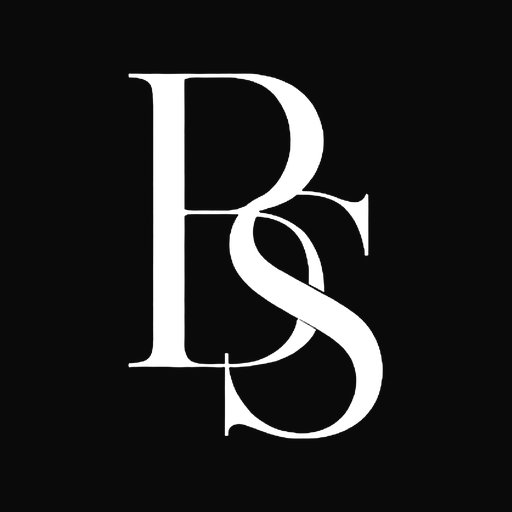
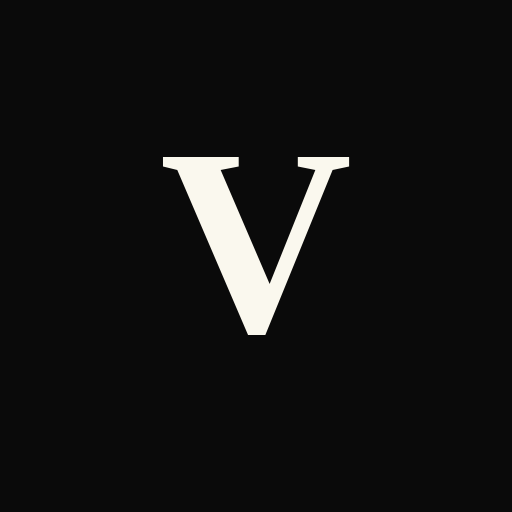
Rebrand BLANK STUDIO to VALENCIANO
Company renamed with a new visual direction inspired by Italian
luxury fashion houses (Valentino) — same product catalog, pricing,
and Peruvian cotton story, but repositioned toward a more dramatic
black/white palette and elegant tone of voice.

- Instagram handle updated to @valenciano.co everywhere the order
  flow references it (this is functional, not just cosmetic).
- BrandMark swapped from the old "BS" logo photos to a plain "V"
  text mark until the real VALENCIANO logo file is attached.
- Home hero, manifesto, and La Marca fully rewritten with the new
  storytelling; category names (Essentials/Oversize/Studio
  Series/Icon Series) intentionally left unchanged per request.
- Paper/ink neutrals pushed toward a starker white/black.

Changed region(s): [[0.25, 0.125, 0.75, 0.875]]

diff --git a/src/app/marca/page.tsx b/src/app/marca/page.tsx
@@ -6,7 +6,7 @@ import { INSTAGRAM_HANDLE } from "@/lib/instagramOrder";
 export const metadata: Metadata = {
   title: "La marca",
   description:
-    "BLANK STUDIO diseña ropa esencial en 100% algodón peruano. Calidad, diseño limpio y quiet luxury.",
+    "VALENCIANO diseña ropa esencial en 100% algodón peruano, con una estética elegante e italiana.",
 };
 
 const VALUES = [
@@ -15,7 +15,7 @@ const VALUES = [
     text: "Algodón 100% peruano en 200 y 300 GSM. Colores sólidos que perduran, tela que no se encoge ni se deforma.",
   },
   {
-    title: "Diseño limpio",
+    title: "Elegancia silenciosa",
     text: "Sin saturación visual. Cuando llevamos un gráfico o una marca, es intencional y discreta — nunca el protagonista de la prenda.",
   },
   {
@@ -30,7 +30,7 @@ export default function MarcaPage() {
       <section className="relative flex h-[60vh] min-h-[420px] w-full items-center justify-center overflow-hidden bg-brand-black">
         <EditorialImage
           src="/catalog/fabric-bg.jpg"
-          alt="BLANK STUDIO"
+          alt="VALENCIANO"
           gradient="from-[#1c1b19] via-[#141312] to-[#0c0b0a]"
         />
         <div className="absolute inset-0 bg-black/40" />
@@ -38,22 +38,22 @@ export default function MarcaPage() {
           <p className="label text-white/60">Premium Essentials</p>
           <BrandMark variant="white" size={72} className="mt-6" />
           <h1 className="font-display mt-6 text-4xl text-white sm:text-6xl">
-            BLANK STUDIO
+            VALENCIANO
           </h1>
         </div>
       </section>
 
       <section className="mx-auto max-w-2xl px-5 py-24 text-center sm:px-8">
         <p className="font-display text-2xl leading-relaxed text-ink/85 sm:text-3xl">
-          No competimos por precio. Competimos por percepción de calidad,
-          identidad y confianza.
+          No competimos por precio. Competimos por elegancia, identidad y
+          confianza.
         </p>
         <p className="mt-8 text-sm leading-relaxed text-ink/60">
-          BLANK STUDIO nace para construir una marca de ropa minimalista
-          reconocida por su calidad y su diseño limpio. Camisetas premium
-          confeccionadas con 100% algodón peruano, pensadas para quienes
-          valoran la simplicidad, la durabilidad y la versatilidad por
-          encima de las tendencias pasajeras.
+          VALENCIANO nace para construir una marca de ropa elegante,
+          inspirada en el rigor y la sobriedad de las grandes casas de moda
+          italianas. Piezas premium confeccionadas con 100% algodón peruano,
+          pensadas para quienes valoran la simplicidad, la durabilidad y una
+          elegancia que no necesita alzar la voz.
         </p>
       </section>
 
@@ -72,7 +72,7 @@ export default function MarcaPage() {
         <div className="relative aspect-[4/5] w-full max-w-md overflow-hidden justify-self-center lg:order-2 lg:justify-self-end">
           <EditorialImage
             src="/catalog/fabric-texture.jpg"
-            alt="Proceso de fabricación BLANK STUDIO"
+            alt="Proceso de fabricación VALENCIANO"
             gradient="from-[#5b4433] via-[#4a3626] to-[#2c2018]"
           />
         </div>
@@ -82,8 +82,8 @@ export default function MarcaPage() {
             El proceso detrás de cada prenda
           </h2>
           <p className="mt-6 text-sm leading-relaxed text-ink/65">
-            Cada camiseta se confecciona con 100% algodón peruano — una de
-            las fibras de algodón más reconocidas del mundo por su suavidad,
+            Cada prenda se confecciona con 100% algodón peruano — una de las
+            fibras de algodón más reconocidas del mundo por su suavidad,
             resistencia y durabilidad. Trabajamos dos gramajes pensados para
             necesidades distintas: 200 GSM, un tejido ligero para el uso
             diario, y 300 GSM, de mayor cuerpo y estructura.
@@ -94,7 +94,7 @@ export default function MarcaPage() {
             color se mantenga sólido con el tiempo. El corte del cuello, las
             costuras y la caída de la prenda se ajustan según la silueta —
             Essentials (horma normal) u Oversize (silueta amplia, cuello en
-            rib) — para que cada línea se vea intencional, no genérica.
+            rib) — para que cada línea se vea intencional, nunca genérica.
           </p>
         </div>
       </section>
@@ -102,22 +102,21 @@ export default function MarcaPage() {
       <section className="mx-auto max-w-3xl px-5 py-24 text-center sm:px-8">
         <p className="label text-ink/40">Para quién</p>
         <h2 className="font-display mt-3 text-3xl sm:text-4xl">
-          ¿A quién viste BLANK STUDIO?
+          ¿A quién viste VALENCIANO?
         </h2>
         <p className="mt-6 text-sm leading-relaxed text-ink/65">
           Hombres y mujeres, principalmente entre los 18 y los 35 años, que
           valoran vestir bien sin depender de logos gigantes ni de
           tendencias que pasan de moda en una temporada. Personas que
-          prefieren una prenda limpia que combine con todo su clóset, que
-          entienden que la calidad se nota en el detalle — la caída de la
+          prefieren una prenda impecable que combine con todo su clóset, que
+          entienden que la elegancia se nota en el detalle — la caída de la
           tela, el gramaje, la consistencia del color — y que se sienten
-          identificadas con un estilo minimalista, cercano al Old Money y al
-          Quiet Luxury: elegante sin ser ruidoso.
+          identificadas con un estilo sobrio y refinado, cercano al Quiet
+          Luxury europeo: elegante sin ser ruidoso.
         </p>
         <p className="mt-4 text-sm leading-relaxed text-ink/65">
-          Si buscas piezas base para armar un guardarropa versátil (capsule
-          wardrobe) en vez de comprar por impulso, BLANK STUDIO está pensado
-          para ti.
+          Si buscas piezas base para armar un guardarropa versátil en vez de
+          comprar por impulso, VALENCIANO está pensado para ti.
         </p>
       </section>
 

diff --git a/src/app/page.tsx b/src/app/page.tsx
@@ -11,7 +11,7 @@ export default function Home() {
       <section className="relative h-[92vh] min-h-[560px] w-full overflow-hidden bg-brand-black">
         <EditorialImage
           src="/catalog/hero-rack.jpg"
-          alt="Camisetas BLANK STUDIO en algodón peruano, colgadas en estudio"
+          alt="Camisetas VALENCIANO en algodón peruano, colgadas en estudio"
           priority
           gradient="from-[#1c1b19] via-[#141312] to-[#0c0b0a]"
         />
@@ -21,14 +21,14 @@ export default function Home() {
             100% algodón peruano
           </p>
           <h1 className="font-display max-w-3xl text-5xl leading-[1.05] text-white sm:text-7xl">
-            Elegancia urbana.
+            L&apos;eleganza essenziale.
             <br />
-            <span className="italic text-white/85">Comodidad esencial.</span>
+            <span className="italic text-white/85">Hecha para durar.</span>
           </h1>
           <p className="mt-6 max-w-md text-sm leading-relaxed text-white/70">
-            Essentials y Oversize en algodón 100% peruano. Horma limpia,
-            materiales premium, sin ruido visual — diseñada para vestirse
-            todos los días.
+            Essentials y Oversize en algodón 100% peruano. Espíritu italiano,
+            horma limpia, materiales premium — elegancia sin esfuerzo, todos
+            los días.
           </p>
           <div className="mt-9 flex flex-wrap gap-4">
             <Link
@@ -51,9 +51,9 @@ export default function Home() {
       <section className="mx-auto max-w-2xl px-5 py-28 text-center sm:px-8">
         <p className="label text-ink/40">Filosofía</p>
         <p className="font-display mt-6 text-2xl leading-relaxed text-ink/85 sm:text-3xl">
-          Diseñamos prendas simples, versátiles y duraderas. Sin saturación
-          visual — solo tela de calidad, un corte limpio y detalles con
-          intención.
+          Diseñamos prendas simples, versátiles y elegantes, con un espíritu
+          italiano. Sin saturación visual — solo tela de calidad, un corte
+          impecable y detalles con intención.
         </p>
       </section>
 
@@ -132,7 +132,7 @@ export default function Home() {
         <div className="relative aspect-square w-full max-w-md overflow-hidden justify-self-center lg:justify-self-end">
           <EditorialImage
             src="/catalog/fabric-texture.jpg"
-            alt="Detalle de textura del algodón peruano BLANK STUDIO"
+            alt="Detalle de textura del algodón peruano VALENCIANO"
             gradient="from-[#5b4433] via-[#4a3626] to-[#2c2018]"
           />
         </div>
@@ -167,16 +167,16 @@ export default function Home() {
       <section className="relative flex h-[60vh] min-h-[420px] w-full items-center justify-center overflow-hidden bg-brand-black">
         <EditorialImage
           src="/catalog/fabric-bg.jpg"
-          alt="Tela negra BLANK STUDIO"
+          alt="Tela negra VALENCIANO"
           gradient="from-[#1c1b19] via-[#141312] to-[#0c0b0a]"
         />
         <div className="absolute inset-0 bg-black/35" />
         <div className="relative z-10 flex flex-col items-center px-6 text-center">
           <span className="label rounded-full border border-white/25 px-5 py-2 text-white/70">
-            Quality over everything
+            L&apos;eccellenza non si spiega, si vive
           </span>
           <p className="font-display mt-8 max-w-xl text-2xl leading-snug text-white sm:text-3xl">
-            No competimos por precio. Competimos por calidad, diseño y
+            No competimos por precio. Competimos por elegancia, calidad y
             confianza.
           </p>
         </div>
@@ -189,8 +189,8 @@ export default function Home() {
           @{INSTAGRAM_HANDLE}
         </h2>
         <p className="mt-4 max-w-sm text-sm text-ink/60">
-          Nuevas prendas, colores de temporada y el detrás de escena de BLANK
-          STUDIO.
+          Nuevas prendas, colores de temporada y el detrás de escena de
+          VALENCIANO.
         </p>
         <a
           href={`https://instagram.com/${INSTAGRAM_HANDLE}`}

diff --git a/src/components/SiteFooter.tsx b/src/components/SiteFooter.tsx
@@ -18,7 +18,7 @@ const COLUMNS = [
     links: [
       { href: "/guia-de-tallas", label: "Guía de tallas" },
       { href: "/pedido", label: "Cómo hacer un pedido" },
-      { href: "/marca", label: "Sobre BLANK STUDIO" },
+      { href: "/marca", label: "Sobre VALENCIANO" },
       { href: "/terminos", label: "Términos y condiciones" },
     ],
   },
@@ -32,11 +32,12 @@ export default function SiteFooter() {
           <div className="col-span-2 md:col-span-2">
             <p className="flex items-center gap-2.5 font-display text-xl tracking-[0.24em]">
               <BrandMark size={26} />
-              BLANK STUDIO
+              VALENCIANO
             </p>
             <p className="mt-4 max-w-xs text-sm leading-relaxed text-ink/60">
-              Ropa esencial en 100% algodón peruano. Essentials y Oversize,
-              horma limpia, materiales premium, sin ruido visual.
+              Ropa esencial en 100% algodón peruano, con una estética
+              elegante e italiana. Essentials y Oversize, horma limpia,
+              materiales premium.
             </p>
             <a
               href={`https://instagram.com/${INSTAGRAM_HANDLE}`}
@@ -69,7 +70,7 @@ export default function SiteFooter() {
 
         <div className="mt-16 flex flex-col-reverse items-start justify-between gap-4 border-t border-line-soft pt-6 sm:flex-row sm:items-center">
           <p className="text-xs text-ink/40">
-            © {new Date().getFullYear()} BLANK STUDIO. Todos los derechos
+            © {new Date().getFullYear()} VALENCIANO. Todos los derechos
             reservados.
           </p>
           <p className="label text-ink/40">Diseñado en Colombia</p>

diff --git a/src/app/layout.tsx b/src/app/layout.tsx
@@ -22,26 +22,26 @@ const inter = Inter({
 });
 
 export const metadata: Metadata = {
-  metadataBase: new URL("https://blankstudio.co"),
+  metadataBase: new URL("https://valenciano.co"),
   title: {
-    default: "BLANK STUDIO — Ropa esencial en algodón peruano",
-    template: "%s — BLANK STUDIO",
+    default: "VALENCIANO — Ropa esencial en algodón peruano",
+    template: "%s — VALENCIANO",
   },
   description:
-    "BLANK STUDIO diseña camisetas esenciales en 100% algodón peruano. Essentials y Oversize, horma limpia, materiales premium, sin ruido visual.",
+    "VALENCIANO diseña ropa esencial en 100% algodón peruano con una estética elegante e italiana. Essentials y Oversize, horma limpia, materiales premium.",
   keywords: [
-    "BLANK STUDIO",
+    "VALENCIANO",
     "camisetas algodón peruano",
     "essentials",
     "oversize",
-    "ropa minimalista Colombia",
-    "quiet luxury",
+    "ropa elegante Colombia",
+    "moda italiana",
   ],
   openGraph: {
-    title: "BLANK STUDIO — Ropa esencial en algodón peruano",
+    title: "VALENCIANO — Ropa esencial en algodón peruano",
     description:
-      "Essentials y Oversize en 100% algodón peruano. Diseño limpio, atemporal, premium.",
-    siteName: "BLANK STUDIO",
+      "Essentials y Oversize en 100% algodón peruano. Diseño elegante, atemporal, premium.",
+    siteName: "VALENCIANO",
     locale: "es_CO",
     type: "website",
   },

diff --git a/src/components/BrandMark.tsx b/src/components/BrandMark.tsx
@@ -1,6 +1,8 @@
-import Image from "next/image";
-
-/** Isotipo "BS" real de BLANK STUDIO, extraído del catálogo oficial. */
+/**
+ * Marca tipográfica provisional de VALENCIANO — una sola "V" en la fuente
+ * editorial de la marca. Sustituir por el isotipo real en cuanto llegue
+ * el archivo del logo (debe subirse como adjunto, no pegado en el chat).
+ */
 export default function BrandMark({
   variant = "black",
   size = 22,
@@ -10,17 +12,14 @@ export default function BrandMark({
   size?: number;
   className?: string;
 }) {
-  const src = variant === "white" ? "/logo-mark-white.png" : "/logo-mark-black.png";
-  // aspect ratio ~1578:2243
-  const width = Math.round(size * (1578 / 2243));
+  const color = variant === "white" ? "#faf8f4" : "#0f0e0c";
   return (
-    <Image
-      src={src}
-      alt="BLANK STUDIO"
-      width={width}
-      height={size}
-      className={className}
-      priority
-    />
+    <span
+      aria-hidden="true"
+      className={`font-display inline-block leading-none ${className}`}
+      style={{ fontSize: size, color, transform: "translateY(1px)" }}
+    >
+      V
+    </span>
   );
 }

diff --git a/src/app/terminos/page.tsx b/src/app/terminos/page.tsx
@@ -4,7 +4,7 @@ import { INSTAGRAM_HANDLE } from "@/lib/instagramOrder";
 export const metadata: Metadata = {
   title: "Términos y condiciones",
   description:
-    "Términos y condiciones de compra de BLANK STUDIO: envíos, métodos de pago, cambios por defecto de fábrica y cambios por talla.",
+    "Términos y condiciones de compra de VALENCIANO: envíos, métodos de pago, cambios por defecto de fábrica y cambios por talla.",
 };
 
 export default function TerminosPage() {
@@ -15,7 +15,7 @@ export default function TerminosPage() {
         Términos y condiciones
       </h1>
       <p className="mt-5 text-sm leading-relaxed text-ink/60">
-        Al hacer un pedido con BLANK STUDIO aceptas las condiciones descritas
+        Al hacer un pedido con VALENCIANO aceptas las condiciones descritas
         en esta página.
       </p>
 

diff --git a/src/lib/instagramOrder.ts b/src/lib/instagramOrder.ts
@@ -1,7 +1,7 @@
 import { COLORS, formatCOP } from "@/data/products";
 import type { CartItemWithPrice } from "@/context/CartContext";
 
-export const INSTAGRAM_HANDLE = "blank_studio.co";
+export const INSTAGRAM_HANDLE = "valenciano.co";
 /** ig.me abre directo el chat interno con la cuenta, no el perfil. */
 export const INSTAGRAM_DM_URL = `https://ig.me/m/${INSTAGRAM_HANDLE}`;
 
@@ -18,7 +18,7 @@ export function buildOrderMessage(
   customer: CustomerInfo
 ): string {
   const lines: string[] = [];
-  lines.push("Hola BLANK STUDIO, quiero hacer este pedido:");
+  lines.push("Hola VALENCIANO, quiero hacer este pedido:");
   lines.push("");
   items.forEach((item, idx) => {
     const colorName = COLORS[item.color].name;

diff --git a/src/app/icon-series/page.tsx b/src/app/icon-series/page.tsx
@@ -3,7 +3,7 @@ import EditorialImage from "@/components/EditorialImage";
 
 export const metadata: Metadata = {
   title: "Icon Series — En lanzamiento",
-  description: "Icon Series — la nueva línea urbana de BLANK STUDIO. En lanzamiento.",
+  description: "Icon Series — la nueva línea urbana de VALENCIANO. En lanzamiento.",
 };
 
 export default function IconSeriesPage() {

diff --git a/src/app/studio-series/page.tsx b/src/app/studio-series/page.tsx
@@ -3,7 +3,7 @@ import EditorialImage from "@/components/EditorialImage";
 
 export const metadata: Metadata = {
   title: "Studio Series — En lanzamiento",
-  description: "Studio Series — la nueva línea de BLANK STUDIO. En lanzamiento.",
+  description: "Studio Series — la nueva línea de VALENCIANO. En lanzamiento.",
 };
 
 export default function StudioSeriesPage() {

diff --git a/src/app/guia-de-tallas/page.tsx b/src/app/guia-de-tallas/page.tsx
@@ -4,7 +4,7 @@ import { PRODUCTS } from "@/data/products";
 export const metadata: Metadata = {
   title: "Guía de tallas",
   description:
-    "Tabla de medidas oficial de BLANK STUDIO para Essentials y Oversize, en centímetros.",
+    "Tabla de medidas oficial de VALENCIANO para Essentials y Oversize, en centímetros.",
 };
 
 export default function GuiaDeTallasPage() {

diff --git a/src/components/SiteHeader.tsx b/src/components/SiteHeader.tsx
@@ -37,7 +37,7 @@ export default function SiteHeader() {
           className="flex items-center gap-2.5 font-display text-lg tracking-[0.28em] whitespace-nowrap"
         >
           <BrandMark size={20} />
-          BLANK STUDIO
+          VALENCIANO
         </Link>
 
         <nav className="hidden md:flex md:items-center md:gap-8">

diff --git a/src/context/CartContext.tsx b/src/context/CartContext.tsx
@@ -40,7 +40,7 @@ interface CartContextValue {
 }
 
 const CartContext = createContext<CartContextValue | null>(null);
-const STORAGE_KEY = "blank-studio-cart";
+const STORAGE_KEY = "valenciano-cart";
 
 export function CartProvider({ children }: { children: ReactNode }) {
   const [items, setItems] = useState<CartItem[]>([]);
